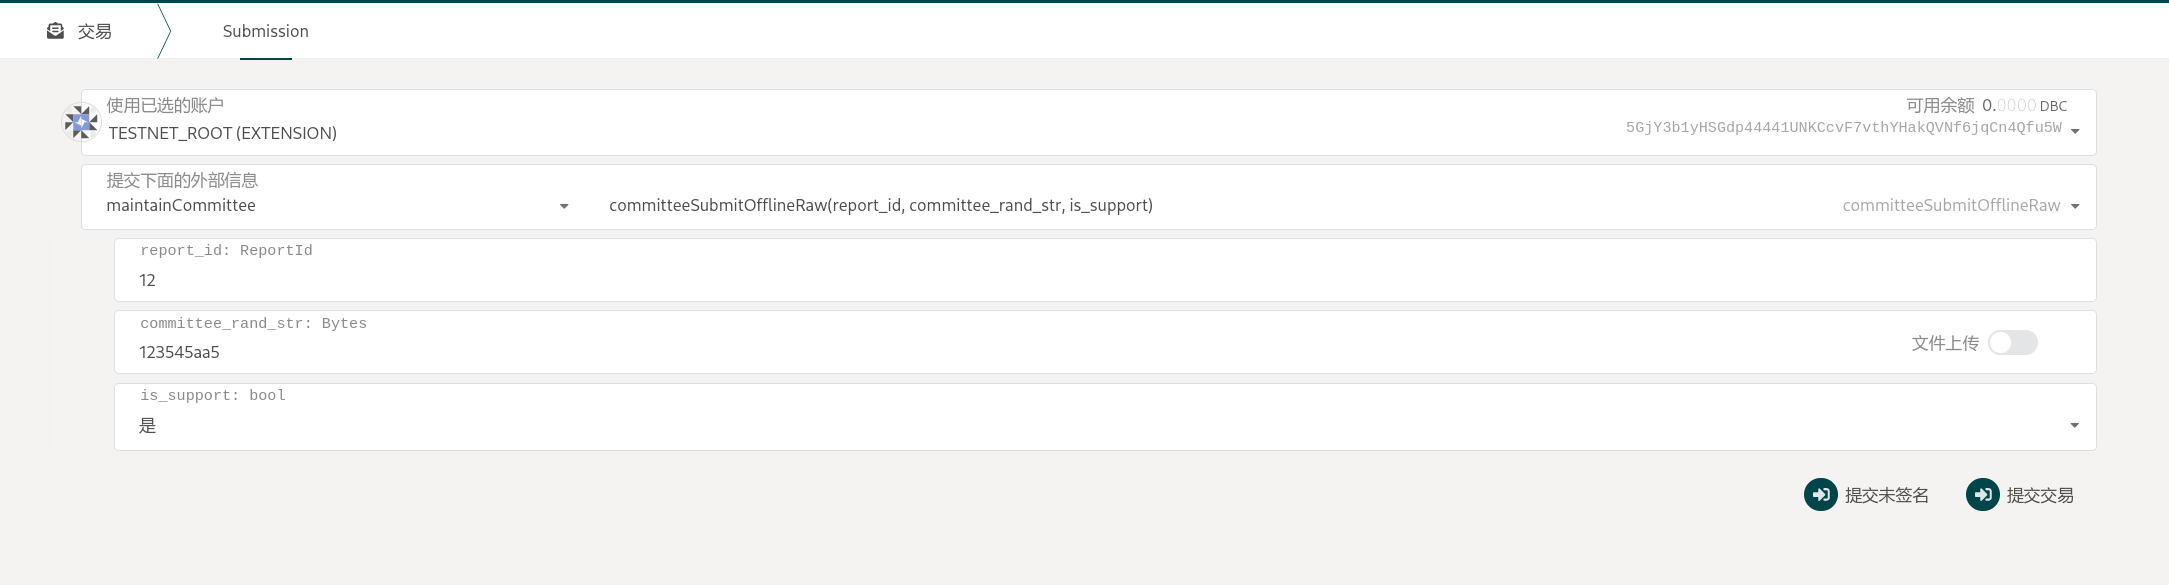
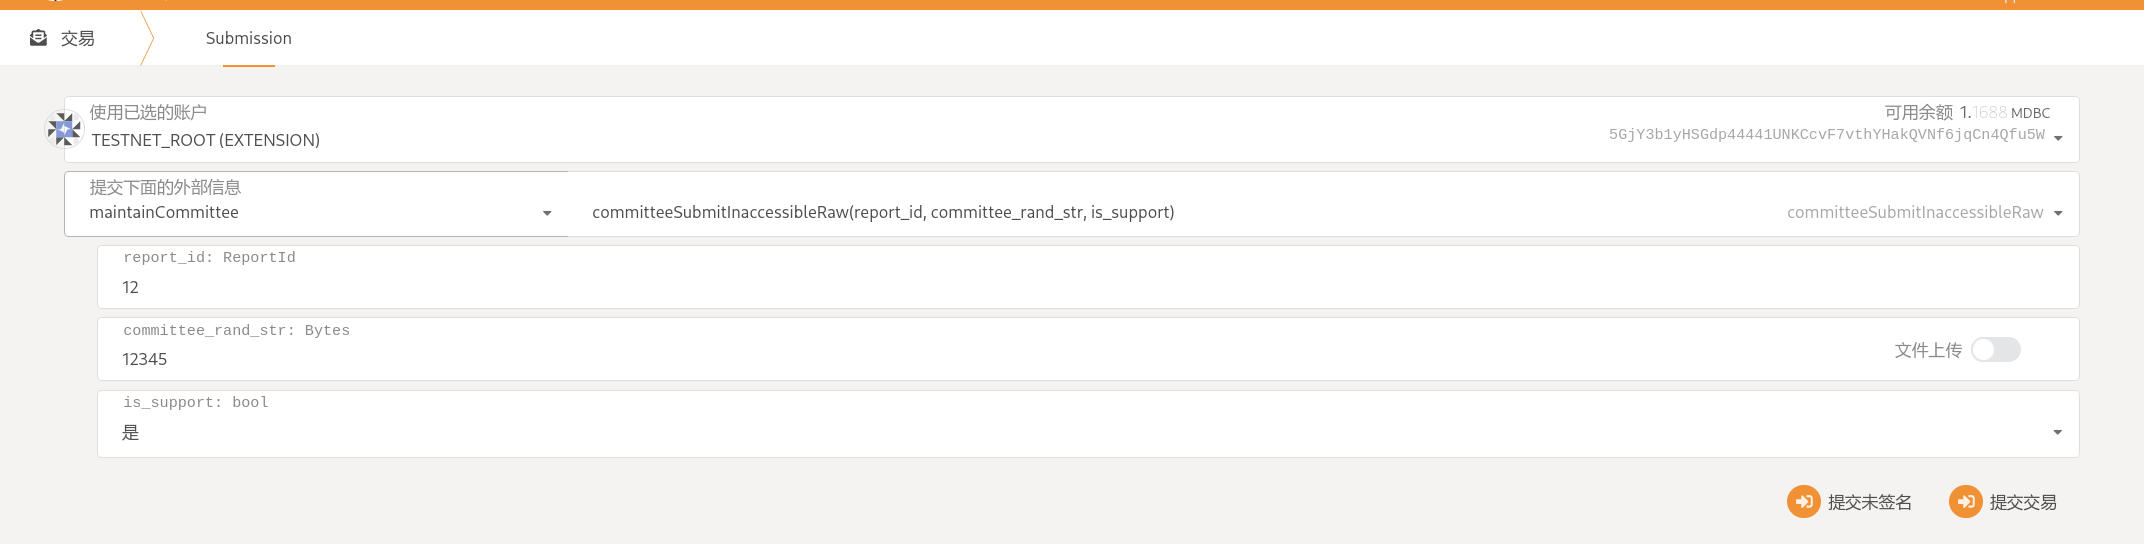
docs: update pic

diff --git a/docs/onchain-guide/report-machine-fault.md b/docs/onchain-guide/report-machine-fault.md
@@ -85,8 +85,6 @@ hash("report_id" + "committee_rand_str" + "is_support");
 
 执行 `committee_submit_inaccessible_raw`
 
-**TODO** 修改该函数名称
-
 ![](./assets/report-machine-fault.assets/3.png)
 
 ::: tip
